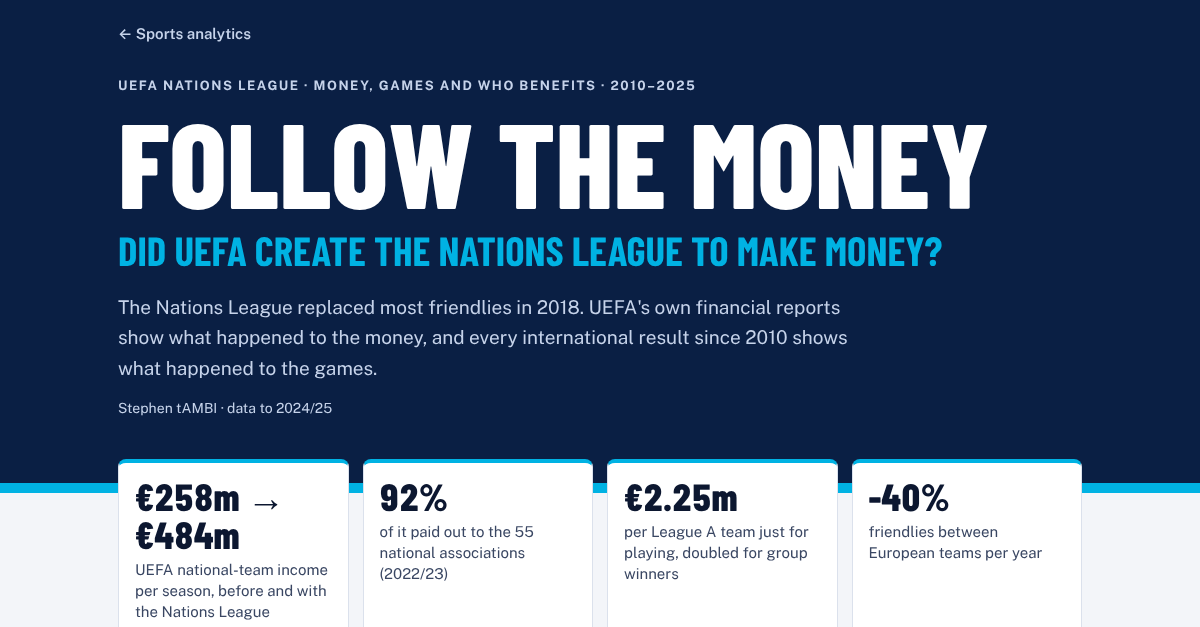
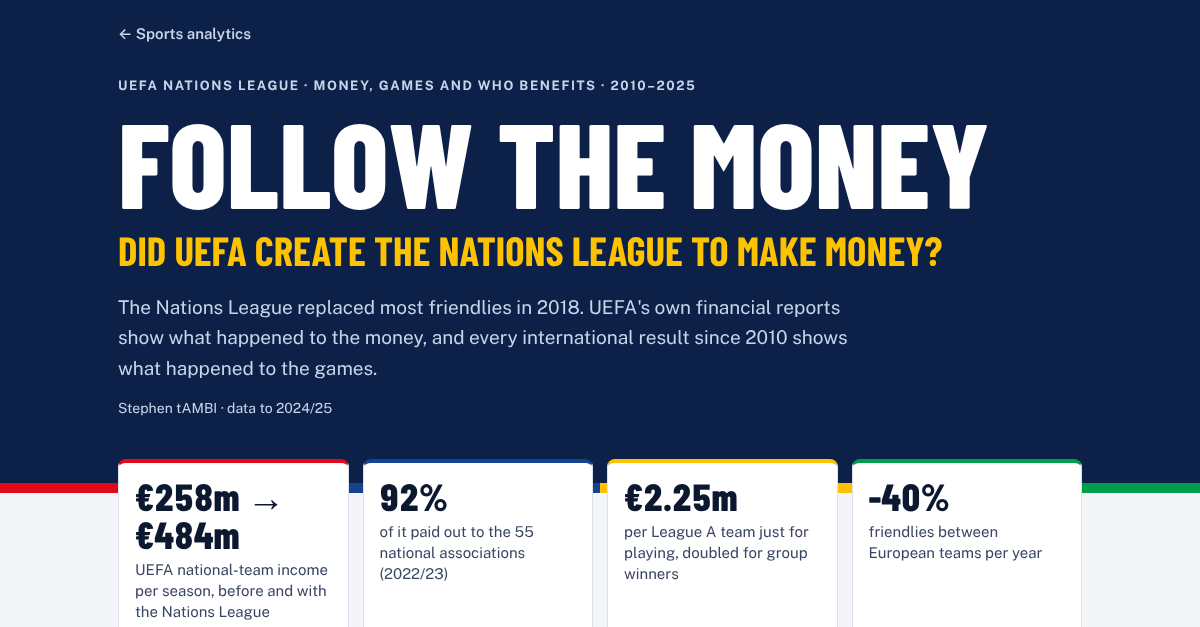
Follow the Money in Nations League colours

diff --git a/football/follow-the-money/index.html b/football/follow-the-money/index.html
@@ -10,7 +10,7 @@
 <meta property="og:description" content="UEFA's national-team income almost doubled after the Nations League arrived. 92% of it went back to the 55 associations. Friendlies between European teams fell 40%.">
 <meta property="og:type" content="website">
 <meta property="og:url" content="https://stambi292.github.io/sports-analytics/football/follow-the-money/">
-<meta property="og:image" content="https://stambi292.github.io/sports-analytics/images/og-follow-the-money.png?v=2">
+<meta property="og:image" content="https://stambi292.github.io/sports-analytics/images/og-follow-the-money.png?v=3">
 <meta property="og:image:width" content="1200">
 <meta property="og:image:height" content="627">
 <link rel="preconnect" href="https://fonts.googleapis.com">
@@ -19,28 +19,28 @@
 /* Layout: deep-navy masthead with cyan rule, KPIs, money per season, where it goes, what countries earn, games per team, closer games, reading, stack, method. */
 :root {
   --bg: #f3f5f9; --panel: #ffffff; --ink: #0c1730; --ink-2: #3a4763; --muted: #64718a; --line: #dbe1ec; --grid: #e8ecf3;
-  --mast: #0a1f44; --on-mast: #ffffff; --on-mast-2: #c6d3ea; --acc: #00b2e3; --acc-ink: #0077a3; --acc-soft: #dff3fa;
-  --navy: #0a1f44; --mid: #7d8db0; --light: #c9d2e3; --gold: #c99a2e;
+  --mast: #0d2148; --on-mast: #ffffff; --on-mast-2: #c8d4ea; --acc: #144391; --acc-ink: #144391; --acc-soft: #e3eaf6;
+  --navy: #0d2148; --mid: #3e5566; --light: #c5ced8; --gold: #fdc301; --red: #e30918; --green: #009e4c; --yellow: #fdc301;
   --font-display: "Barlow Condensed", "Arial Narrow", Arial, sans-serif;
   --font-body: "Public Sans", "Segoe UI", Arial, sans-serif;
 }
 @media (prefers-color-scheme: dark) { :root:not([data-theme="light"]) {
   --bg: #0a1120; --panel: #111b2e; --ink: #edf1f8; --ink-2: #bcc7da; --muted: #8592aa; --line: #243049; --grid: #1a2438;
-  --mast: #0a1f44; --on-mast-2: #b7c6e2; --acc: #2cc3ee; --acc-ink: #5fd2f2; --acc-soft: #12304a;
-  --navy: #9fb3da; --mid: #5f6f92; --light: #33415c; --gold: #e0b450; color-scheme: dark; } }
+  --mast: #0d2148; --on-mast-2: #b9c8e4; --acc: #5b8ee0; --acc-ink: #8db1ee; --acc-soft: #16284a;
+  --navy: #9fb3da; --mid: #6c8296; --light: #33415c; --gold: #fdc301; --red: #ff4a52; --green: #2dbd73; --yellow: #fdc301; color-scheme: dark; } }
 :root[data-theme="dark"] {
   --bg: #0a1120; --panel: #111b2e; --ink: #edf1f8; --ink-2: #bcc7da; --muted: #8592aa; --line: #243049; --grid: #1a2438;
-  --mast: #0a1f44; --on-mast-2: #b7c6e2; --acc: #2cc3ee; --acc-ink: #5fd2f2; --acc-soft: #12304a;
-  --navy: #9fb3da; --mid: #5f6f92; --light: #33415c; --gold: #e0b450; color-scheme: dark; }
+  --mast: #0d2148; --on-mast-2: #b9c8e4; --acc: #5b8ee0; --acc-ink: #8db1ee; --acc-soft: #16284a;
+  --navy: #9fb3da; --mid: #6c8296; --light: #33415c; --gold: #fdc301; --red: #ff4a52; --green: #2dbd73; --yellow: #fdc301; color-scheme: dark; }
 * { box-sizing: border-box; }
 body { margin: 0; background: var(--bg); color: var(--ink); font: 17px/1.6 var(--font-body); }
 .inner { max-width: 1000px; margin: 0 auto; padding-left: max(18px, env(safe-area-inset-left, 0px)); padding-right: max(18px, env(safe-area-inset-right, 0px)); }
-.mast { background: var(--mast); color: var(--on-mast); border-bottom: 10px solid var(--acc); }
+.mast { background: var(--mast); color: var(--on-mast); border-bottom: 10px solid; border-image: linear-gradient(90deg, #e30918 0 25%, #144391 25% 50%, #fdc301 50% 75%, #009e4c 75%) 1; }
 .mast .inner { padding-block: 22px 64px; display: grid; gap: 14px; }
 .back { color: var(--on-mast-2); text-decoration: none; font-weight: 600; font-size: 15px; }
 .eyebrow { font: 700 13px var(--font-body); letter-spacing: .12em; text-transform: uppercase; color: var(--on-mast-2); margin-top: 18px; }
 h1 { font: 800 clamp(58px, 12vw, 120px)/.9 var(--font-display); text-transform: uppercase; margin: 0; }
-h1 span { display: block; font-size: .34em; line-height: 1.15; margin-top: 12px; font-weight: 700; color: var(--acc); text-wrap: balance; }
+h1 span { display: block; font-size: .34em; line-height: 1.15; margin-top: 12px; font-weight: 700; color: var(--yellow); text-wrap: balance; }
 .lede { margin: 4px 0 0; max-width: 64ch; color: var(--on-mast-2); font-size: 19px; }
 .byline { font-size: 14px; color: var(--on-mast-2); }
 h2 { font: 700 36px/1.05 var(--font-display); margin: 0 0 8px; text-wrap: balance; }
@@ -48,6 +48,7 @@ h2 { font: 700 36px/1.05 var(--font-display); margin: 0 0 8px; text-wrap: balanc
 section { padding-block: 44px 4px; }
 .kpis { display: grid; grid-template-columns: repeat(4, minmax(0, 1fr)); gap: 14px; margin-top: -34px; }
 .kpi { background: var(--panel); border: 1px solid var(--line); border-top: 4px solid var(--acc); border-radius: 8px; padding: 14px 16px; min-width: 0; }
+.kpi:nth-child(1) { border-top-color: var(--red); } .kpi:nth-child(3) { border-top-color: var(--yellow); } .kpi:nth-child(4) { border-top-color: var(--green); }
 .kpi b { display: block; font: 800 38px/1 var(--font-display); font-variant-numeric: tabular-nums; }
 .kpi span { color: var(--ink-2); font-size: 15px; line-height: 1.4; display: block; margin-top: 6px; }
 .card { background: var(--panel); border: 1px solid var(--line); border-radius: 10px; padding: 22px; display: grid; gap: 16px; min-width: 0; }
@@ -64,7 +65,7 @@ section { padding-block: 44px 4px; }
 .split { display: grid; gap: 12px; }
 .srow { display: grid; grid-template-columns: 5em minmax(0, 1fr) 4.4em; gap: 12px; align-items: center; font-size: 15px; }
 .srow .track { display: flex; height: 26px; border-radius: 4px; overflow: hidden; background: var(--grid); }
-.srow .paid { background: var(--acc); } .srow .kept { background: var(--mid); }
+.srow .paid { background: var(--green); } .srow .kept { background: var(--mid); }
 .srow .pct { font: 700 22px var(--font-display); text-align: right; }
 .fees { display: grid; grid-template-columns: repeat(4, minmax(0, 1fr)); gap: 12px; }
 .fee { border: 1px solid var(--line); border-radius: 8px; padding: 14px; text-align: center; min-width: 0; }
@@ -128,7 +129,7 @@ footer { padding-block: 40px 56px; font-size: 14px; color: var(--muted); }
     <h2>But most of it goes to the countries</h2>
     <p class="intro">Yes, the countries make money too. UEFA passes almost all national-team income on to its 55 member associations. What it keeps covers running the competitions.</p>
     <div class="card"><div class="split" id="split"></div>
-      <div class="legend"><span><i style="background:var(--acc)"></i>Paid to the 55 associations</span><span><i style="background:var(--mid)"></i>Kept by UEFA</span></div>
+      <div class="legend"><span><i style="background:var(--green)"></i>Paid to the 55 associations</span><span><i style="background:var(--mid)"></i>Kept by UEFA</span></div>
       <p class="note">National-team revenue and the amount UEFA recorded as distributions to associations in the same season. Seasons with complete figures in the reports.</p></div>
   </section>
 

diff --git a/football/scripts/unl_template.html b/football/scripts/unl_template.html
@@ -10,7 +10,7 @@
 <meta property="og:description" content="UEFA's national-team income almost doubled after the Nations League arrived. 92% of it went back to the 55 associations. Friendlies between European teams fell 40%.">
 <meta property="og:type" content="website">
 <meta property="og:url" content="https://stambi292.github.io/sports-analytics/football/follow-the-money/">
-<meta property="og:image" content="https://stambi292.github.io/sports-analytics/images/og-follow-the-money.png?v=2">
+<meta property="og:image" content="https://stambi292.github.io/sports-analytics/images/og-follow-the-money.png?v=3">
 <meta property="og:image:width" content="1200">
 <meta property="og:image:height" content="627">
 <link rel="preconnect" href="https://fonts.googleapis.com">
@@ -19,28 +19,28 @@
 /* Layout: deep-navy masthead with cyan rule, KPIs, money per season, where it goes, what countries earn, games per team, closer games, reading, stack, method. */
 :root {
   --bg: #f3f5f9; --panel: #ffffff; --ink: #0c1730; --ink-2: #3a4763; --muted: #64718a; --line: #dbe1ec; --grid: #e8ecf3;
-  --mast: #0a1f44; --on-mast: #ffffff; --on-mast-2: #c6d3ea; --acc: #00b2e3; --acc-ink: #0077a3; --acc-soft: #dff3fa;
-  --navy: #0a1f44; --mid: #7d8db0; --light: #c9d2e3; --gold: #c99a2e;
+  --mast: #0d2148; --on-mast: #ffffff; --on-mast-2: #c8d4ea; --acc: #144391; --acc-ink: #144391; --acc-soft: #e3eaf6;
+  --navy: #0d2148; --mid: #3e5566; --light: #c5ced8; --gold: #fdc301; --red: #e30918; --green: #009e4c; --yellow: #fdc301;
   --font-display: "Barlow Condensed", "Arial Narrow", Arial, sans-serif;
   --font-body: "Public Sans", "Segoe UI", Arial, sans-serif;
 }
 @media (prefers-color-scheme: dark) { :root:not([data-theme="light"]) {
   --bg: #0a1120; --panel: #111b2e; --ink: #edf1f8; --ink-2: #bcc7da; --muted: #8592aa; --line: #243049; --grid: #1a2438;
-  --mast: #0a1f44; --on-mast-2: #b7c6e2; --acc: #2cc3ee; --acc-ink: #5fd2f2; --acc-soft: #12304a;
-  --navy: #9fb3da; --mid: #5f6f92; --light: #33415c; --gold: #e0b450; color-scheme: dark; } }
+  --mast: #0d2148; --on-mast-2: #b9c8e4; --acc: #5b8ee0; --acc-ink: #8db1ee; --acc-soft: #16284a;
+  --navy: #9fb3da; --mid: #6c8296; --light: #33415c; --gold: #fdc301; --red: #ff4a52; --green: #2dbd73; --yellow: #fdc301; color-scheme: dark; } }
 :root[data-theme="dark"] {
   --bg: #0a1120; --panel: #111b2e; --ink: #edf1f8; --ink-2: #bcc7da; --muted: #8592aa; --line: #243049; --grid: #1a2438;
-  --mast: #0a1f44; --on-mast-2: #b7c6e2; --acc: #2cc3ee; --acc-ink: #5fd2f2; --acc-soft: #12304a;
-  --navy: #9fb3da; --mid: #5f6f92; --light: #33415c; --gold: #e0b450; color-scheme: dark; }
+  --mast: #0d2148; --on-mast-2: #b9c8e4; --acc: #5b8ee0; --acc-ink: #8db1ee; --acc-soft: #16284a;
+  --navy: #9fb3da; --mid: #6c8296; --light: #33415c; --gold: #fdc301; --red: #ff4a52; --green: #2dbd73; --yellow: #fdc301; color-scheme: dark; }
 * { box-sizing: border-box; }
 body { margin: 0; background: var(--bg); color: var(--ink); font: 17px/1.6 var(--font-body); }
 .inner { max-width: 1000px; margin: 0 auto; padding-left: max(18px, env(safe-area-inset-left, 0px)); padding-right: max(18px, env(safe-area-inset-right, 0px)); }
-.mast { background: var(--mast); color: var(--on-mast); border-bottom: 10px solid var(--acc); }
+.mast { background: var(--mast); color: var(--on-mast); border-bottom: 10px solid; border-image: linear-gradient(90deg, #e30918 0 25%, #144391 25% 50%, #fdc301 50% 75%, #009e4c 75%) 1; }
 .mast .inner { padding-block: 22px 64px; display: grid; gap: 14px; }
 .back { color: var(--on-mast-2); text-decoration: none; font-weight: 600; font-size: 15px; }
 .eyebrow { font: 700 13px var(--font-body); letter-spacing: .12em; text-transform: uppercase; color: var(--on-mast-2); margin-top: 18px; }
 h1 { font: 800 clamp(58px, 12vw, 120px)/.9 var(--font-display); text-transform: uppercase; margin: 0; }
-h1 span { display: block; font-size: .34em; line-height: 1.15; margin-top: 12px; font-weight: 700; color: var(--acc); text-wrap: balance; }
+h1 span { display: block; font-size: .34em; line-height: 1.15; margin-top: 12px; font-weight: 700; color: var(--yellow); text-wrap: balance; }
 .lede { margin: 4px 0 0; max-width: 64ch; color: var(--on-mast-2); font-size: 19px; }
 .byline { font-size: 14px; color: var(--on-mast-2); }
 h2 { font: 700 36px/1.05 var(--font-display); margin: 0 0 8px; text-wrap: balance; }
@@ -48,6 +48,7 @@ h2 { font: 700 36px/1.05 var(--font-display); margin: 0 0 8px; text-wrap: balanc
 section { padding-block: 44px 4px; }
 .kpis { display: grid; grid-template-columns: repeat(4, minmax(0, 1fr)); gap: 14px; margin-top: -34px; }
 .kpi { background: var(--panel); border: 1px solid var(--line); border-top: 4px solid var(--acc); border-radius: 8px; padding: 14px 16px; min-width: 0; }
+.kpi:nth-child(1) { border-top-color: var(--red); } .kpi:nth-child(3) { border-top-color: var(--yellow); } .kpi:nth-child(4) { border-top-color: var(--green); }
 .kpi b { display: block; font: 800 38px/1 var(--font-display); font-variant-numeric: tabular-nums; }
 .kpi span { color: var(--ink-2); font-size: 15px; line-height: 1.4; display: block; margin-top: 6px; }
 .card { background: var(--panel); border: 1px solid var(--line); border-radius: 10px; padding: 22px; display: grid; gap: 16px; min-width: 0; }
@@ -64,7 +65,7 @@ section { padding-block: 44px 4px; }
 .split { display: grid; gap: 12px; }
 .srow { display: grid; grid-template-columns: 5em minmax(0, 1fr) 4.4em; gap: 12px; align-items: center; font-size: 15px; }
 .srow .track { display: flex; height: 26px; border-radius: 4px; overflow: hidden; background: var(--grid); }
-.srow .paid { background: var(--acc); } .srow .kept { background: var(--mid); }
+.srow .paid { background: var(--green); } .srow .kept { background: var(--mid); }
 .srow .pct { font: 700 22px var(--font-display); text-align: right; }
 .fees { display: grid; grid-template-columns: repeat(4, minmax(0, 1fr)); gap: 12px; }
 .fee { border: 1px solid var(--line); border-radius: 8px; padding: 14px; text-align: center; min-width: 0; }
@@ -128,7 +129,7 @@ footer { padding-block: 40px 56px; font-size: 14px; color: var(--muted); }
     <h2>But most of it goes to the countries</h2>
     <p class="intro">Yes, the countries make money too. UEFA passes almost all national-team income on to its 55 member associations. What it keeps covers running the competitions.</p>
     <div class="card"><div class="split" id="split"></div>
-      <div class="legend"><span><i style="background:var(--acc)"></i>Paid to the 55 associations</span><span><i style="background:var(--mid)"></i>Kept by UEFA</span></div>
+      <div class="legend"><span><i style="background:var(--green)"></i>Paid to the 55 associations</span><span><i style="background:var(--mid)"></i>Kept by UEFA</span></div>
       <p class="note">National-team revenue and the amount UEFA recorded as distributions to associations in the same season. Seasons with complete figures in the reports.</p></div>
   </section>
 

diff --git a/football/scripts/make_thumbnails.js b/football/scripts/make_thumbnails.js
@@ -2,7 +2,7 @@
 // Add one entry per new project and run: node football/scripts/make_thumbnails.js
 const {chromium}=require('playwright');
 const T=[
- {f:'og-follow-the-money.png',bg:'#0a1f44',ink:'#fff',acc:'#00b2e3',sub:'#c6d3ea',kick:'UEFA NATIONS LEAGUE · MONEY AND GAMES · 2010–2025',t:'FOLLOW THE<br><span>MONEY</span>',
+ {f:'og-follow-the-money.png',bg:'#0d2148',ink:'#fff',acc:'#fdc301',sub:'#c8d4ea',kick:'UEFA NATIONS LEAGUE · MONEY AND GAMES · 2010–2025',t:'FOLLOW THE<br><span>MONEY</span>',
   body:`<div class="stats"><div><em>€484m</em><small>a season, up from €258m</small></div><div><em class="a">92%</em><small>paid to the 55 associations</small></div><div><em>−40%</em><small>friendlies</small></div></div>`},
  {f:'og-the-115.png',bg:'#6cabdd',ink:'#1c2c5b',acc:'#ffffff',sub:'#1c2c5b',kick:'PREMIER LEAGUE · MANCHESTER CITY · 115 CHARGES',t:'THE 115<br><span>WHAT COULD IT COST CITY?</span>',
   body:`<div class="stats"><div><em class="a">5 of 8</em><small>titles a 3-point penalty flips</small></div><div><em>−6</em><small>Everton, for one breach</small></div><div><em>3rd → 20th</em><small>City now, at −15</small></div></div>`},

diff --git a/index.html b/index.html
@@ -99,7 +99,7 @@ footer a { color: var(--ink-2); }
     <h2 id="h-football">Football</h2>
     <h3 class="sub">Interactive</h3>
     <a class="feature" href="football/follow-the-money/">
-      <img src="images/football-follow-the-money.png?v=2" alt="Follow the Money: who wins from the UEFA Nations League" loading="lazy">
+      <img src="images/football-follow-the-money.png?v=3" alt="Follow the Money: who wins from the UEFA Nations League" loading="lazy">
       <div class="body">
         <h3>Follow the Money</h3>
         <p>Did UEFA create the Nations League to make money? National-team income per season went from €258m to €484m, but 91–92% was paid out to the 55 associations. Friendlies between European teams fell 40%, and the games got closer.</p>
